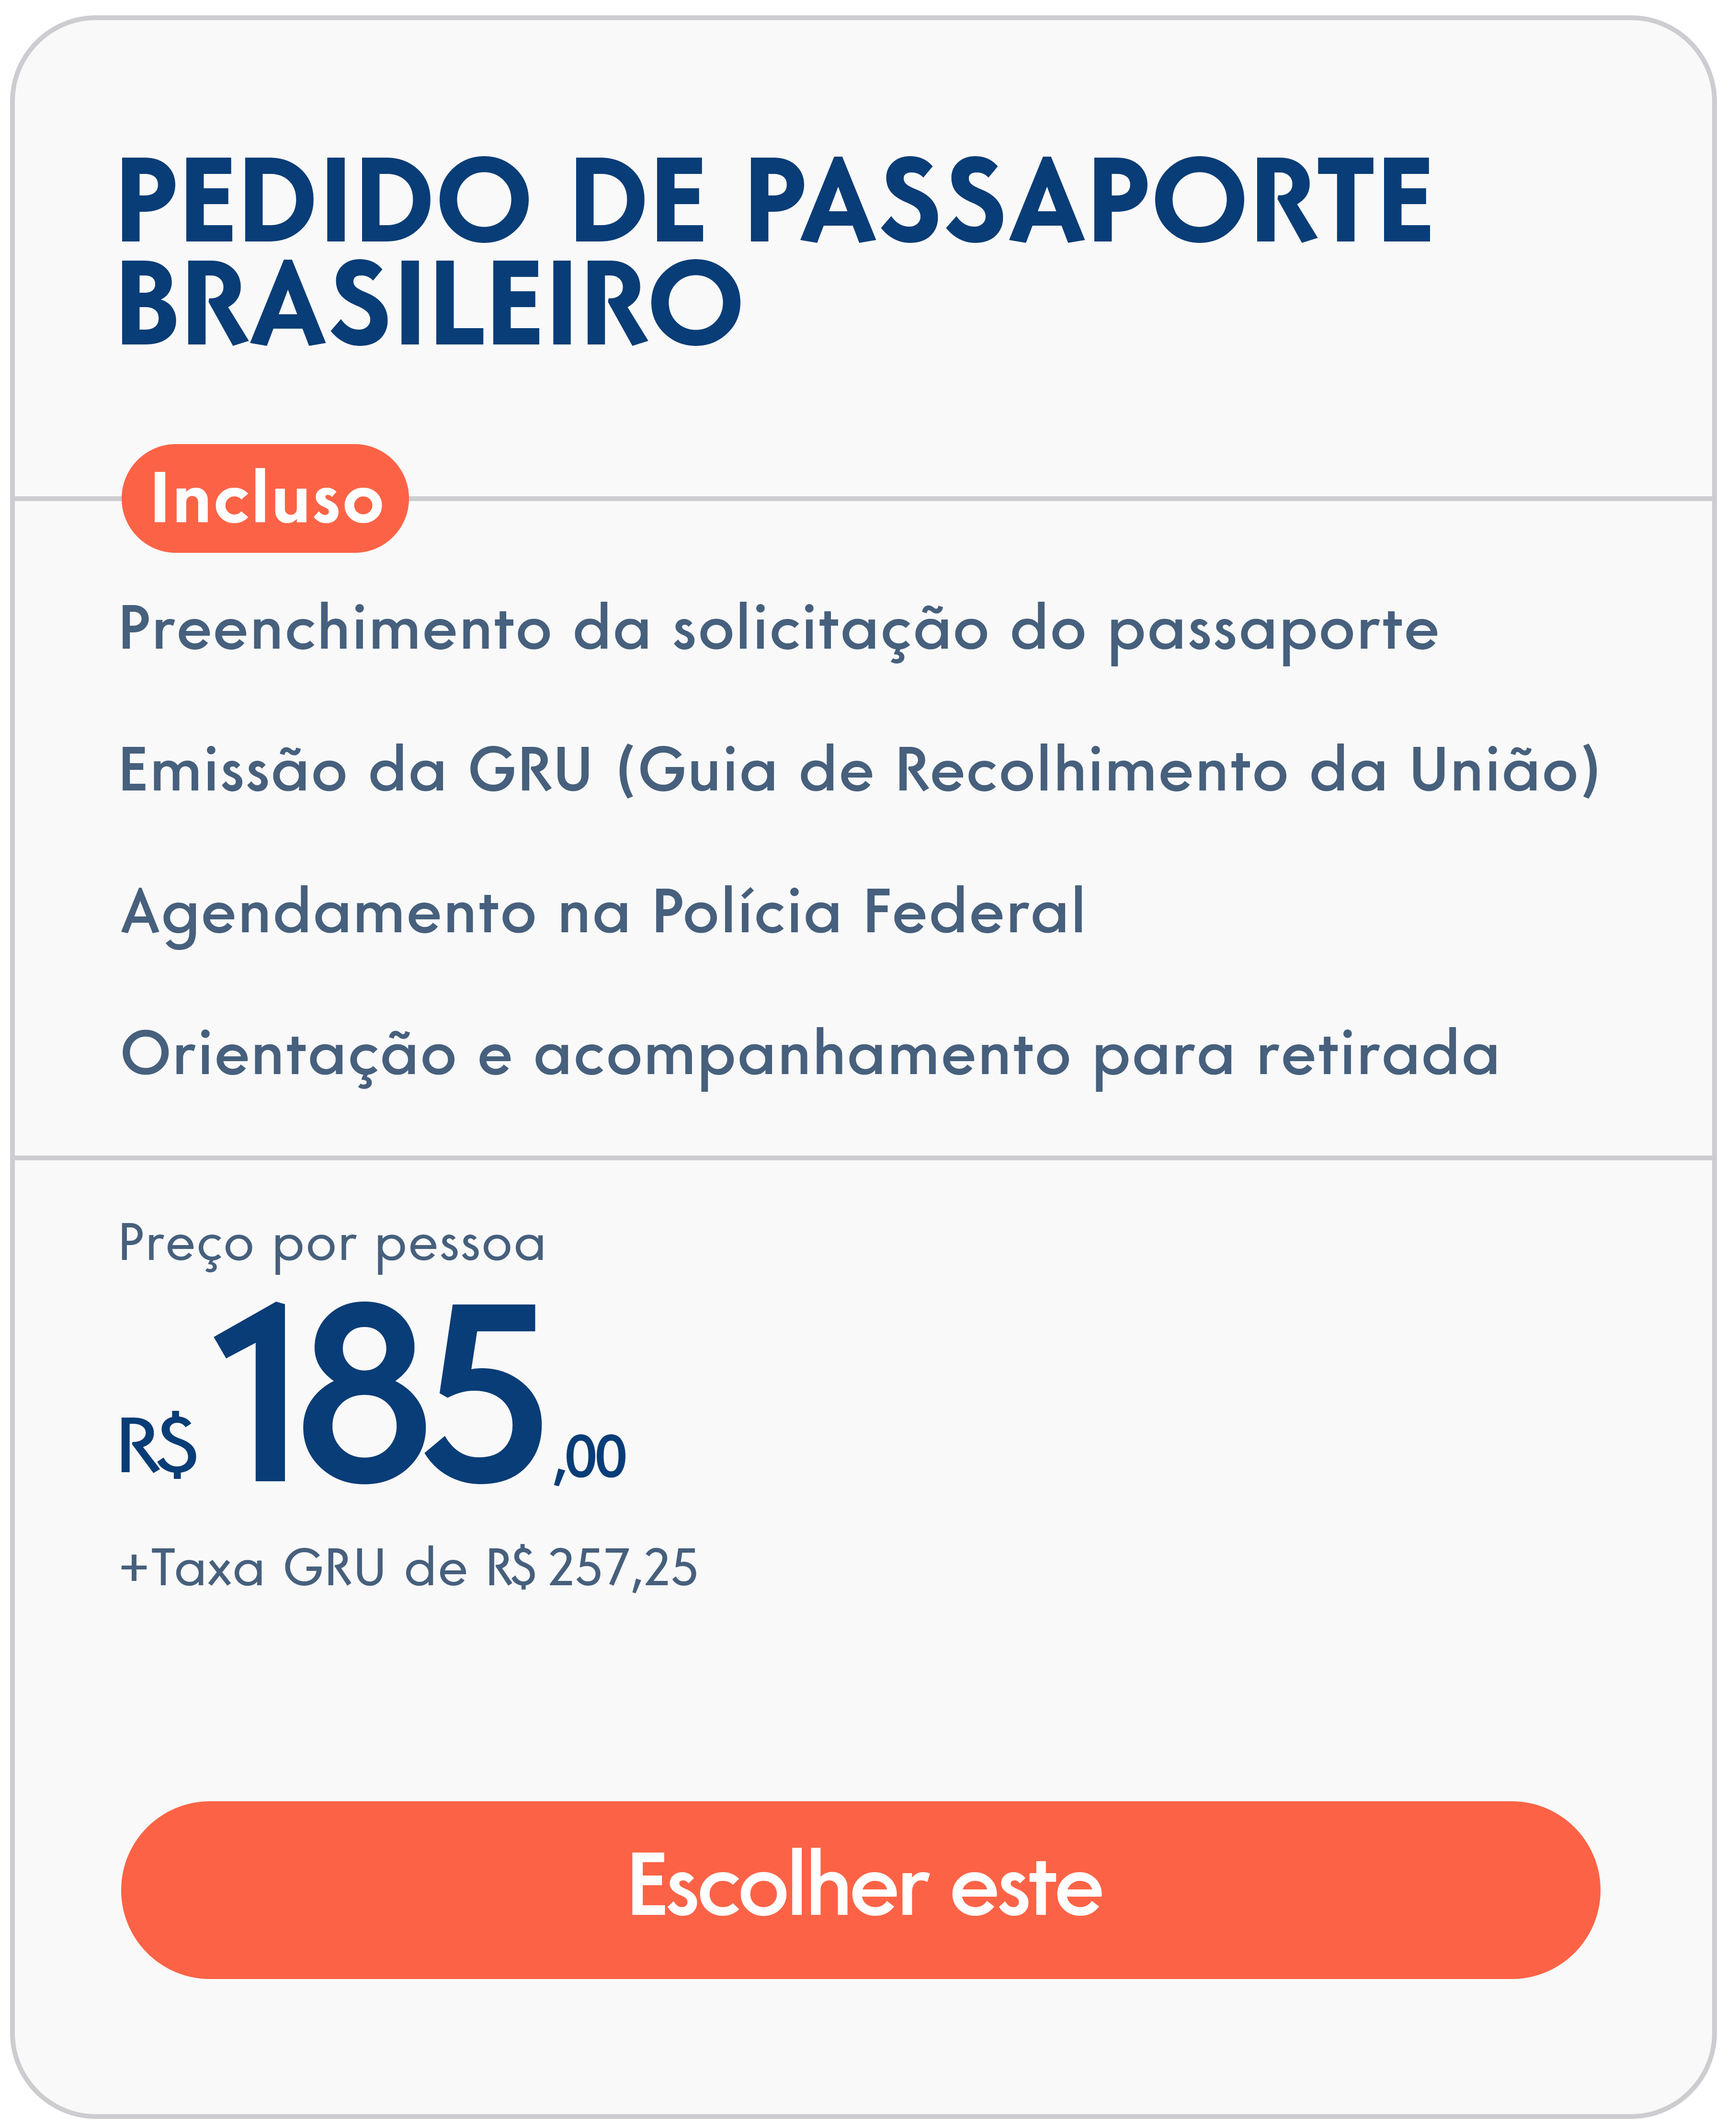
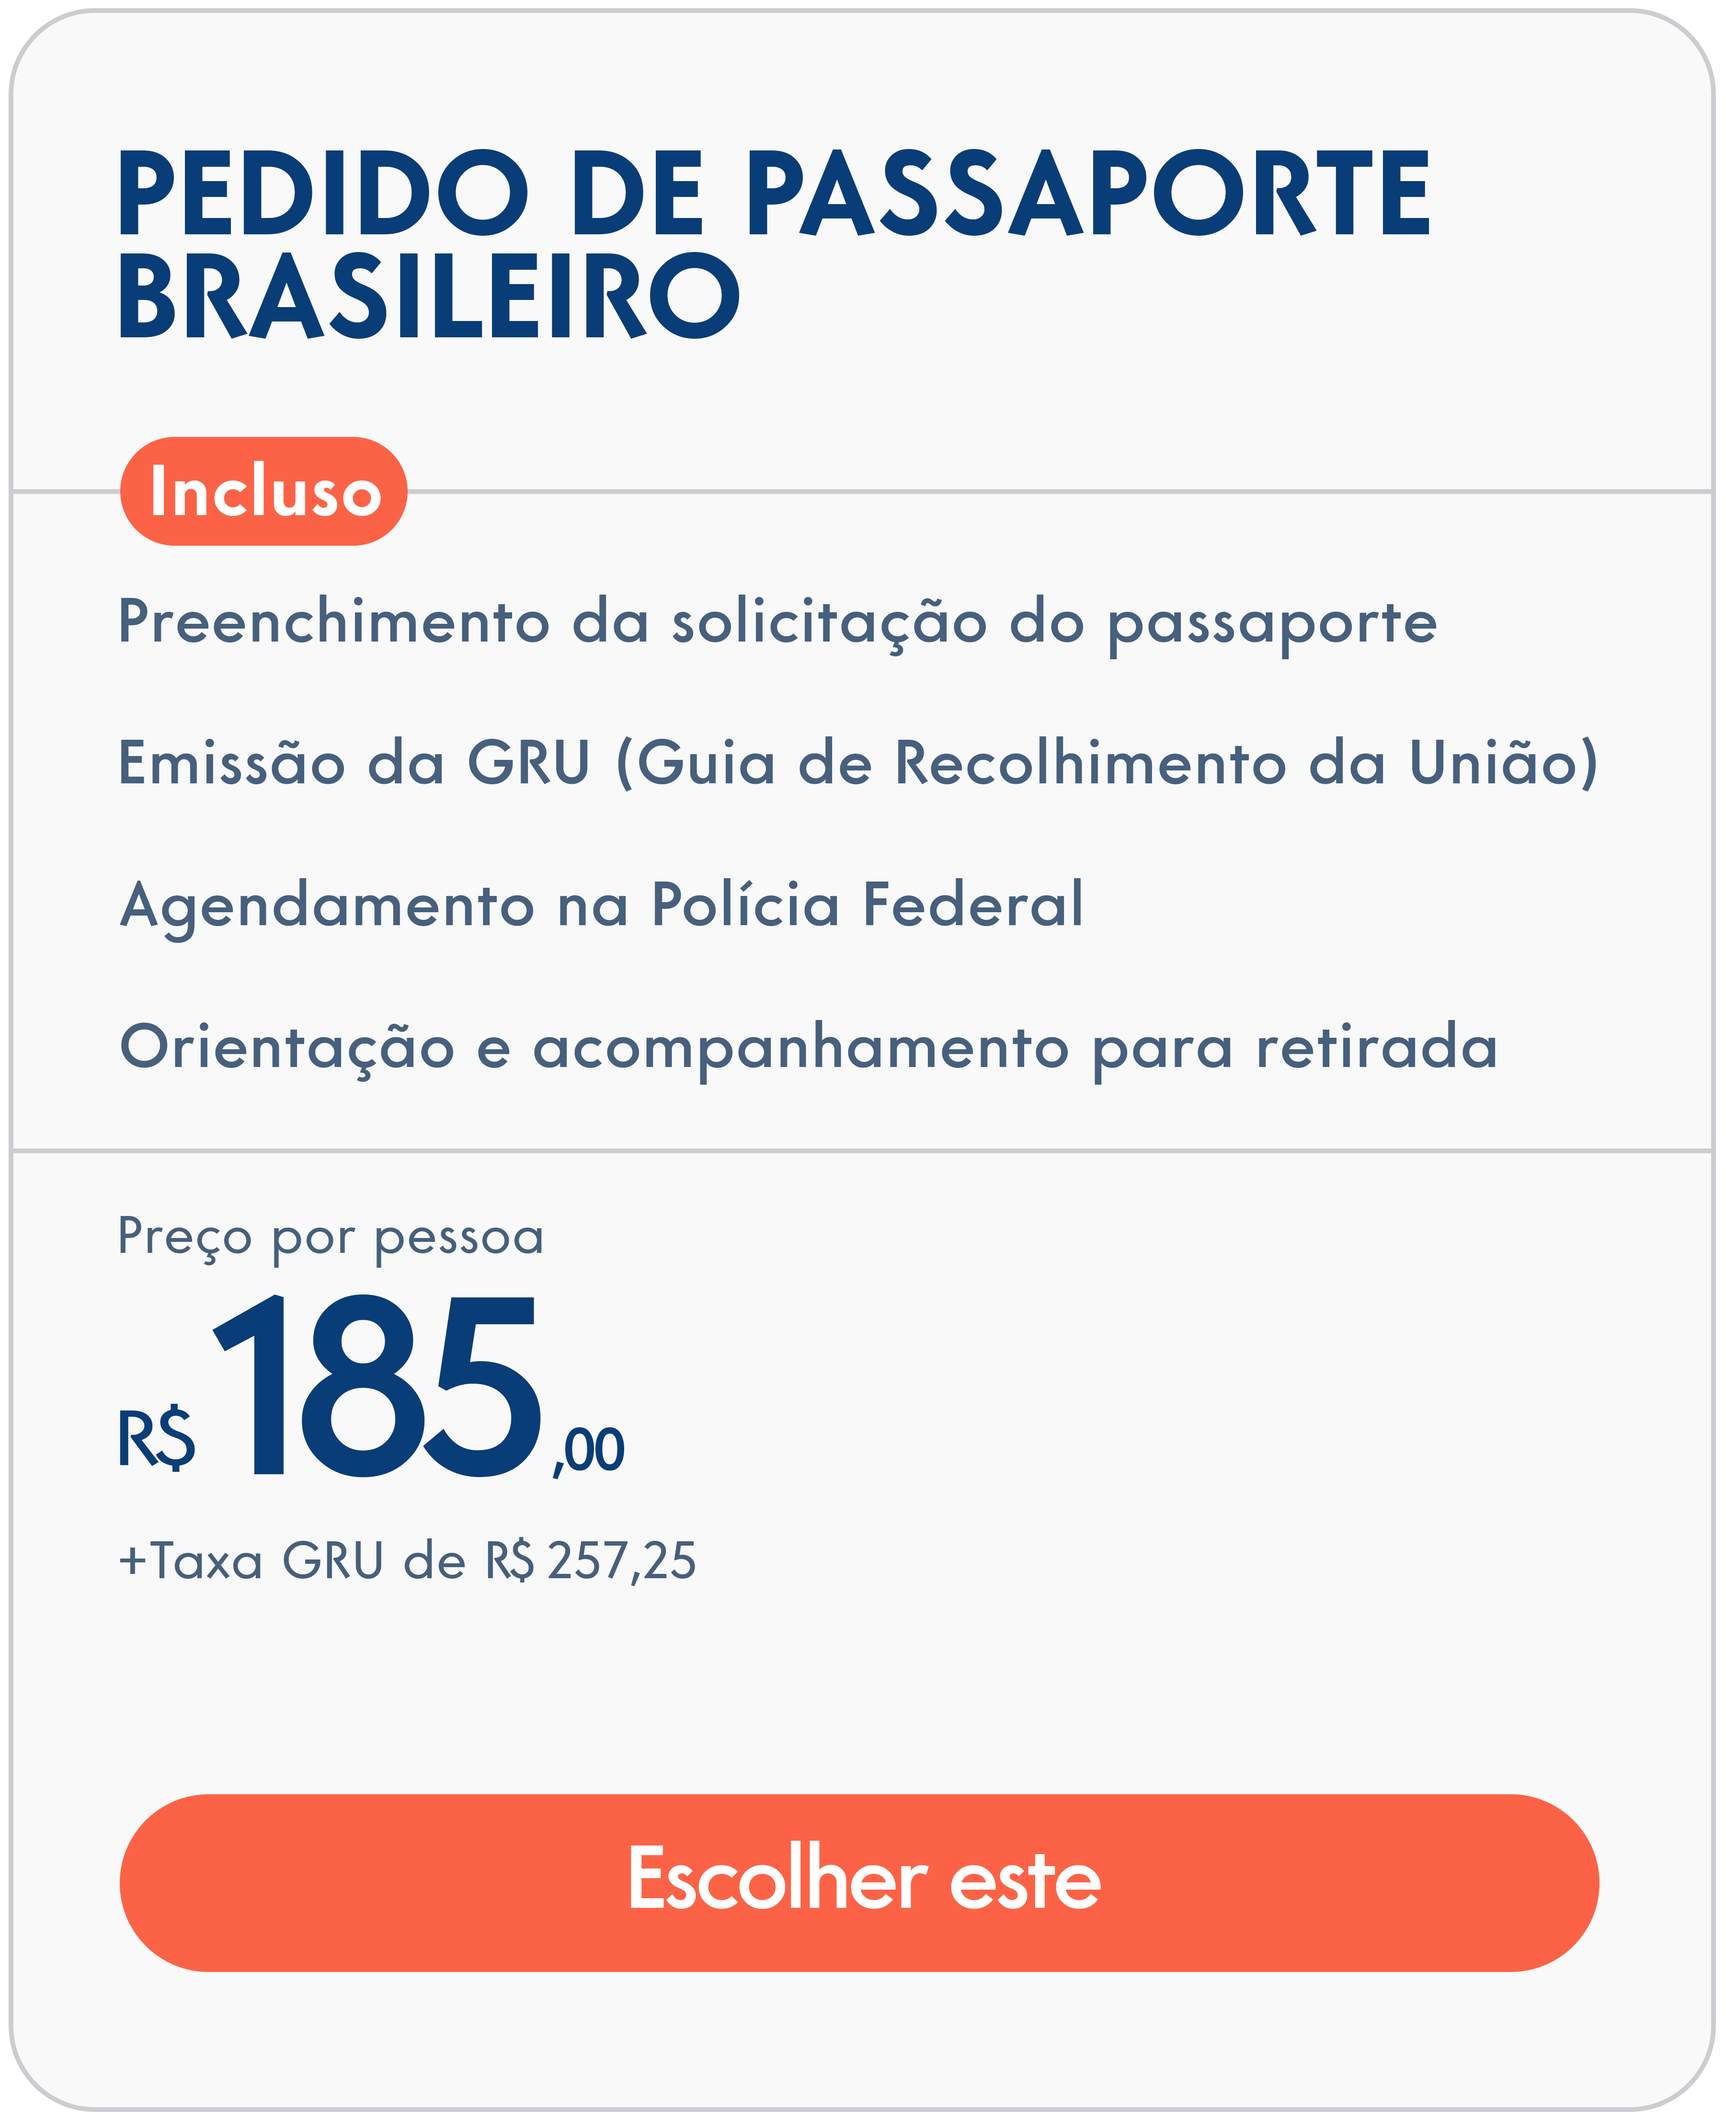
feat: transform scale of cards

diff --git a/src/app/components/home/home.component.scss b/src/app/components/home/home.component.scss
@@ -1,5 +1,5 @@
 main {
-    background-color: #d9d9d9;
+    background-color: #f9f9f9;
     display: flex;
     flex-direction: column;
     justify-content: center;
@@ -135,7 +135,7 @@ main {
             justify-content: start;
             align-items: center;
             width: 500px;
-            padding: 60px 0px 60px 0px;
+            padding: 30px 0px 80px 0px;
 
             img {
                 max-width: 120px;
@@ -156,13 +156,14 @@ main {
 
 .assessorias {
     font-family: 'Poppins', sans-serif;
-    color: #f9f9f9;
+    color: #ffffff;
     display: flex;
     flex-direction: column;
     align-items: center;
 
     .nossas-assessorias {
         background-color: #fc6346;
+        z-index: 1;
         width: 100%;
         height: 70px;
         display: flex;
@@ -171,35 +172,76 @@ main {
 
         h1 {
             font-size: 36px;
+            color: #ffffff;
         }
     }
 
     .cards-assessoria {
         background-color: #083d77;
         width: 100%;
-        height: 750px;
+        height: 680px;
         position: relative;
+        display: flex;
+        align-items: center;
+        justify-content: center;
 
         .card {
+            display: flex;
+            flex-direction: row;
+            justify-content: center;
+            overflow: hidden;
+            width: 1280px;
+
+            img {
+                z-index: 1;
+                position: relative;
+                width: 360px;
+                height: 450px;
+                margin: 50px 30px;
+                transition: all 0.3s ease;
+
+                &:hover {
+                    cursor: pointer;
+                    box-shadow: 0px 0px 10px 6px rgba(0, 0, 0, 0.15);
+                    border-radius: 23px;
+                    transform: scale(1.05);
+                    transition: all 0.3s ease;
+                }
+            }
+        }
+
+        .arrows {
+            background-color: green;
             width: 100%;
+            z-index: 2;
+            background-color: transparent;
             display: flex;
             flex-direction: row;
             justify-content: space-between;
+            align-items: center;
     
-            img {
-                z-index: 2;
-                width: 350px;
-                height: 450px;
-                margin: 50px 30px;
+            .arrow1 {
+                z-index: 1;
+                width: 20px;
+                transform: rotate(180deg);
+                background-color: transparent;
+            }
+            
+            .arrow2 {
+                z-index: 1;
+                width: 20px;
             }
         }
+
+
     }
 
-    img {
-        width: 100%;
-        height: 750px;
-        position: absolute;
-        opacity: .2;
+    .imagem {
+            width: 100%;
+            height: 750px;
+            position: absolute;
+            object-fit: cover;
+            opacity: .2;
     }
 }
 

diff --git a/src/app/components/home/home.component.html b/src/app/components/home/home.component.html
@@ -41,7 +41,12 @@
         <div class="nossas-assessorias">
             <h1>NOSSAS ASSESSORIAS</h1>
         </div>
+        
         <div class="cards-assessoria">
+            <!-- <div class="arrows">
+                <img class="arrow1" src="./assets/arrow2.png">
+                <img class="arrow2" src="./assets/arrow2.png">
+            </div> -->
             <div class="card">
                 <img src="./assets/card.png">
                 <img src="./assets/card.png">
@@ -51,8 +56,7 @@
                 <img src="./assets/card.png">
                 <img src="./assets/card.png">
             </div>
-            <img src="./assets/passport.jpg">
         </div>
-        
+        <img class="imagem" src="./assets/passport.jpg">
     </section>
 </main>
